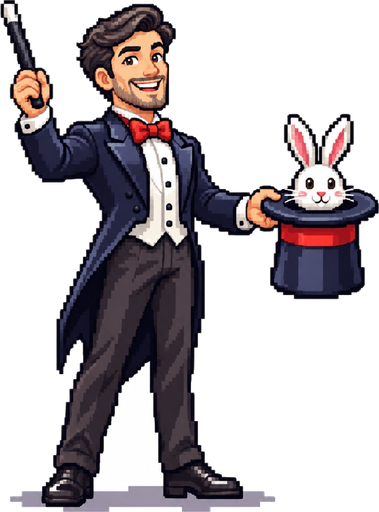
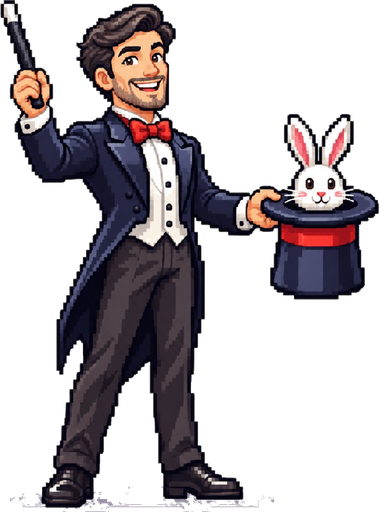
Fix mago alpha, enlarge clown 20%, align lanes, restore SFX & glamorous fondo.png

diff --git a/index.html b/index.html
@@ -8,7 +8,7 @@
         @import url('https://fonts.googleapis.com/css2?family=Press+Start+2P&display=swap');
         :root { --crimson: #8B0016; --crimson-bright: #C8102E; --dark-bg: #0A0608; --oro: #FFD166; --gold: #D4AF37; }
         body, html { margin: 0; padding: 0; height: 100%; font-family: 'Arial Black', sans-serif; color: #FAF5EE; overflow: hidden; touch-action: manipulation; background: var(--dark-bg); overscroll-behavior: none; user-select: none; -webkit-user-select: none; }
-        .con-fondo { background: url('fondo.png') center center / cover no-repeat; background-color: var(--dark-bg); image-rendering: pixelated; }
+        .con-fondo { background: url('fondo.png') center center / cover no-repeat; background-color: var(--dark-bg); }
         
         .panel-glass { background: rgba(16, 6, 9, 0.92); backdrop-filter: blur(10px); border: 2px solid var(--gold); box-shadow: 0 0 25px rgba(139, 0, 22, 0.75); border-radius: 15px; padding: 25px 15px; width: 90%; max-width: 320px; text-align: center; margin: 0 auto; transition: all 0.3s ease;}
         
@@ -127,6 +127,9 @@
         const contadorGigante = document.getElementById('contador-gigante-movil');
         const pantallaLlegada = document.getElementById('pantalla-llegada');
         
+        const VOLUMEN_MAX = 0.7;
+        const audioCtx = new (window.AudioContext || window.webkitAudioContext)();
+
         document.addEventListener('touchmove', function (event) { if (event.scale !== 1) { event.preventDefault(); } }, { passive: false });
         let lastTouchEnd = 0;
         document.addEventListener('touchend', function (event) {
@@ -134,6 +137,22 @@
             if (now - lastTouchEnd <= 300) { event.preventDefault(); }
             lastTouchEnd = now;
         }, false);
+
+        function reproducirPop() {
+            if(audioCtx.state === 'suspended') audioCtx.resume();
+            const osc = audioCtx.createOscillator(); const gain = audioCtx.createGain();
+            osc.type = 'triangle'; osc.frequency.setValueAtTime(800, audioCtx.currentTime); osc.frequency.exponentialRampToValueAtTime(300, audioCtx.currentTime + 0.1);
+            gain.gain.setValueAtTime(VOLUMEN_MAX, audioCtx.currentTime); gain.gain.exponentialRampToValueAtTime(0.01, audioCtx.currentTime + 0.1);
+            osc.connect(gain); gain.connect(audioCtx.destination); osc.start(); osc.stop(audioCtx.currentTime + 0.1);
+        }
+
+        function reproducirBeep(frecuencia) {
+            if(audioCtx.state === 'suspended') audioCtx.resume();
+            const osc = audioCtx.createOscillator(); const gain = audioCtx.createGain();
+            osc.type = 'square'; osc.frequency.setValueAtTime(frecuencia, audioCtx.currentTime); 
+            gain.gain.setValueAtTime(VOLUMEN_MAX * 0.5, audioCtx.currentTime); gain.gain.exponentialRampToValueAtTime(0.01, audioCtx.currentTime + 0.1);
+            osc.connect(gain); gain.connect(audioCtx.destination); osc.start(); osc.stop(audioCtx.currentTime + 0.1);
+        }
 
         onValue(ref(db, 'salaActiva'), (snap) => { pinActivo = snap.val(); });
 
@@ -150,6 +169,7 @@
             miPila = miNombre.split(' ')[0]; 
             
             document.getElementById('pantalla-nombre').classList.remove('activa');
+            if(audioCtx.state === 'suspended') audioCtx.resume();
             asignarEquipoAleatorio();
         };
 
@@ -240,13 +260,16 @@
                 overlayContador.style.display = 'flex'; 
                 contadorGigante.style.fontSize = "150px";
                 let num = 3; contadorGigante.innerText = num;
+                reproducirBeep(440);
                 cuentaAtrasInterval = setInterval(() => {
                     num--; 
                     if(num > 0) {
                         contadorGigante.innerText = num;
+                        reproducirBeep(440);
                     } else { 
                         contadorGigante.style.fontSize = "80px"; 
                         contadorGigante.innerText = "GO!"; 
+                        reproducirBeep(880);
                         clearInterval(cuentaAtrasInterval); 
                     }
                 }, 1000);
@@ -320,6 +343,7 @@
                 msj.className = "texto-negro-inverso";
                 
                 if(navigator.vibrate) navigator.vibrate([200, 100, 200, 100, 200, 100, 1000, 500, 2000, 500, 2000]);
+                reproducirBeep(1000); setTimeout(()=>reproducirBeep(1200), 200); setTimeout(()=>reproducirBeep(1500), 400);
             }
         });
 
@@ -330,6 +354,7 @@
             e.preventDefault(); 
             if(estadoActual !== 'carrera' || yaCruzoMeta) return; 
 
+            reproducirPop(); 
             if (navigator.vibrate) navigator.vibrate(15); 
             
             const num = document.createElement('div'); 

diff --git a/tv.html b/tv.html
@@ -153,10 +153,10 @@
         const db = getDatabase(app);
         
         const EQUIPOS = [
-            { id: 1, nombre: "FORZUDO", asset: "forzudo.png", posicionY: "66%", inicioX: 12, finX: 85, escala: 1.0 },
-            { id: 2, nombre: "MAGO", asset: "mago.png", posicionY: "73%", inicioX: 12, finX: 85, escala: 1.0 },
-            { id: 3, nombre: "PAYASO", asset: "payaso.png", posicionY: "81%", inicioX: 12, finX: 85, escala: 1.0 },
-            { id: 4, nombre: "SR. CORALES", asset: "corales.png", posicionY: "89%", inicioX: 12, finX: 85, escala: 1.0 }
+            { id: 1, nombre: "FORZUDO", asset: "forzudo.png", posicionY: "60%", inicioX: 12, finX: 85, escala: 1.0 },
+            { id: 2, nombre: "MAGO", asset: "mago.png", posicionY: "67%", inicioX: 12, finX: 85, escala: 1.0 },
+            { id: 3, nombre: "PAYASO", asset: "payaso.png", posicionY: "76%", inicioX: 12, finX: 85, escala: 1.2 },
+            { id: 4, nombre: "SR. CORALES", asset: "corales.png", posicionY: "86%", inicioX: 12, finX: 85, escala: 1.0 }
         ];
         const COLORES_ESTETICOS = ['#FAF5EE', '#FFD166', '#D4AF37', '#C8102E']; 
 
@@ -319,12 +319,15 @@
                 });
 
                 let num = 3; tv.innerText = num;
+                const ctx = new (window.AudioContext || window.webkitAudioContext)();
+                const beep = (f) => { const o=ctx.createOscillator(); const g=ctx.createGain(); o.type='square'; o.frequency.value=f; g.gain.setValueAtTime(volGlobal*0.5, ctx.currentTime); g.gain.exponentialRampToValueAtTime(0.01, ctx.currentTime+0.1); o.connect(g); g.connect(ctx.destination); o.start(); o.stop(ctx.currentTime+0.1); };
+                beep(440);
                 
                 const int = setInterval(() => {
                     num--; 
-                    if(num > 0) { tv.innerText = num; } 
+                    if(num > 0) { tv.innerText = num; beep(440); } 
                     else { 
-                        clearInterval(int); tv.innerText = "GO!";
+                        clearInterval(int); tv.innerText = "GO!"; beep(880);
                         setTimeout(() => { tv.style.display = 'none'; set(ref(db, 'estado'), 'carrera'); }, 500); 
                     }
                 }, 1000);
